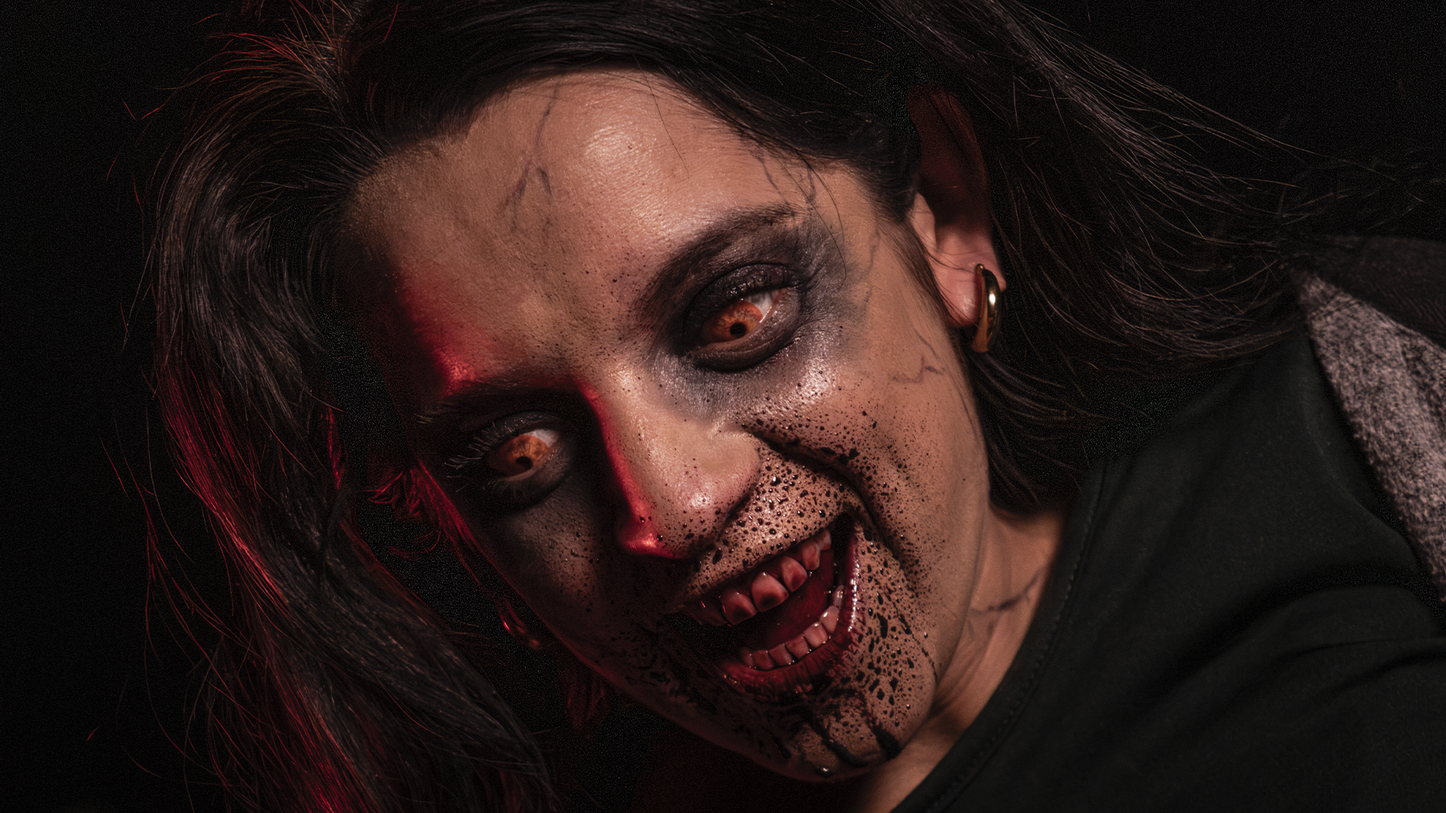
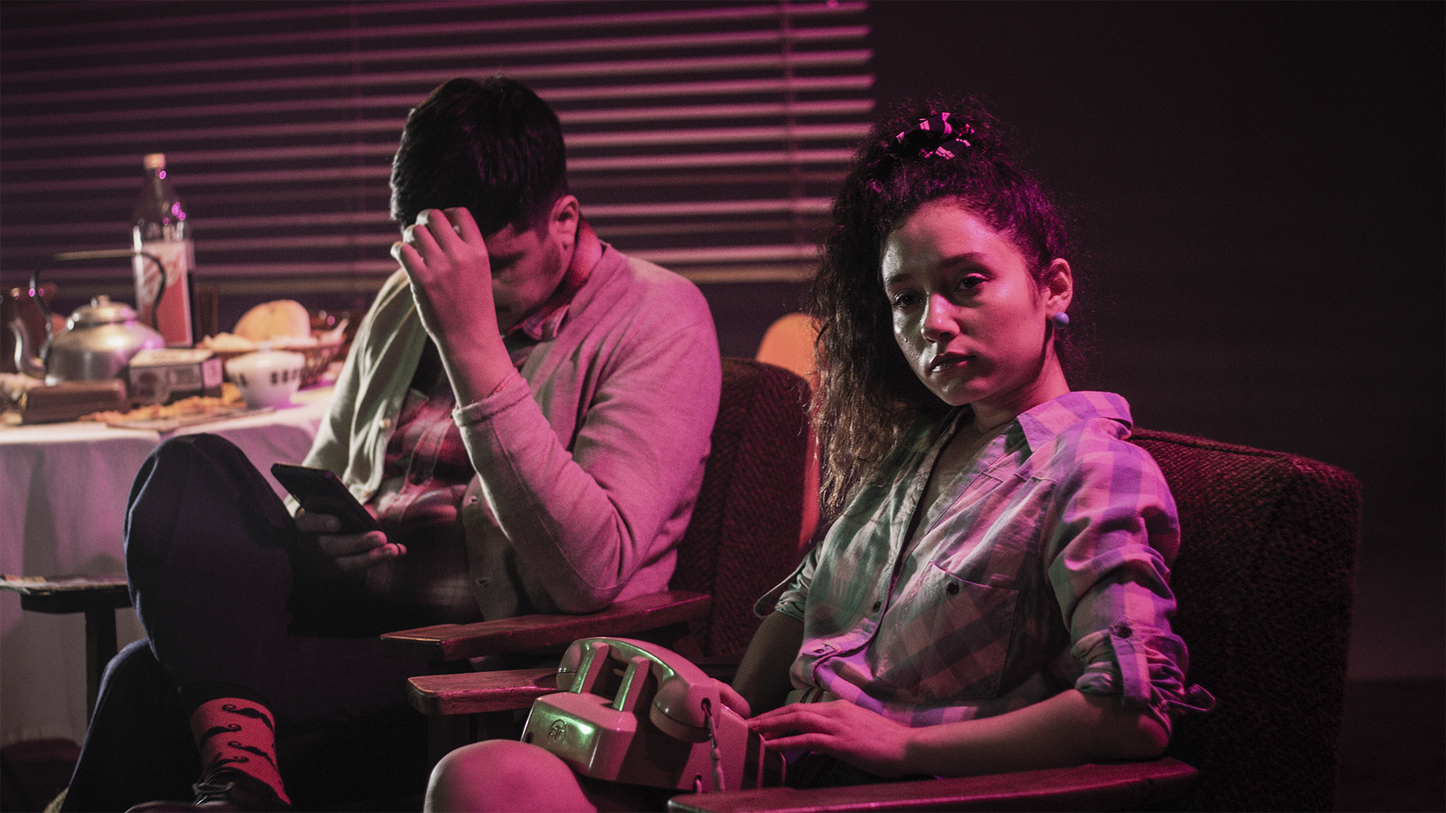
Portafolio modificado

diff --git a/app/portafolio/page.tsx b/app/portafolio/page.tsx
@@ -4,20 +4,46 @@ import { useState } from "react";
 import Link from "next/link";
 import Image from "next/image";
 
-// array de imágenes desde portafolio1.png hasta portafolio21.png
-const imagenesPortafolio: string[] = Array.from(
-  { length: 21 },
-  (_, index) => `/portafolio${index + 1}.png`
-);
+interface ItemPortafolio {
+  id: number;
+  src: string;
+  title: string;
+}
+
+// Estructura de array individual con objetos para cada imagen (portafolio1.png a portafolio23.png)
+const imagenesPortafolio: ItemPortafolio[] = [
+  { id: 1, src: "/portafolio1.png", title: "PUTA QUE WEVEAI TOMMY" },
+  { id: 2, src: "/portafolio2.png", title: "PUTA QUE WEVEAI TOMMY" },
+  { id: 3, src: "/portafolio3.png", title: "PUTA QUE WEVEAI TOMMY" },
+  { id: 4, src: "/portafolio4.png", title: "PUTA QUE WEVEAI TOMMY" },
+  { id: 5, src: "/portafolio5.png", title: "PUTA QUE WEVEAI TOMMY" },
+  { id: 6, src: "/portafolio6.png", title: "PUTA QUE WEVEAI TOMMY" },
+  { id: 7, src: "/portafolio7.png", title: "PUTA QUE WEVEAI TOMMY" },
+  { id: 8, src: "/portafolio8.png", title: "PUTA QUE WEVEAI TOMMY" },
+  { id: 9, src: "/portafolio9.png", title: "PUTA QUE WEVEAI TOMMY" },
+  { id: 10, src: "/portafolio10.png", title: "PUTA QUE WEVEAI TOMMY" },
+  { id: 11, src: "/portafolio11.png", title: "PUTA QUE WEVEAI TOMMY" },
+  { id: 12, src: "/portafolio12.png", title: "PUTA QUE WEVEAI TOMMY" },
+  { id: 13, src: "/portafolio13.png", title: "AGREGAR TITULO" },
+  { id: 14, src: "/portafolio14.png", title: "AGREGAR TITULO" },
+  { id: 15, src: "/portafolio15.png", title: "AGREGAR TITULO" },
+  { id: 16, src: "/portafolio16.png", title: "AGREGAR TITULO" },
+  { id: 17, src: "/portafolio17.png", title: "AGREGAR TITULO" },
+  { id: 18, src: "/portafolio18.png", title: "AGREGAR TITULO" },
+  { id: 19, src: "/portafolio19.png", title: "AGREGAR TITULO" },
+  { id: 20, src: "/portafolio20.png", title: "AGREGAR TITULO" },
+  { id: 21, src: "/portafolio21.png", title: "AGREGAR TITULO" },
+  { id: 22, src: "/portafolio22.png", title: "AGREGAR TITULO" },
+  { id: 23, src: "/portafolio23.png", title: "AGREGAR TITULO" },
+];
 
 export default function PortafolioPage() {
-  const [imagenSeleccionada, setImagenSeleccionada] = useState<string | null>(null);
+  const [imagenSeleccionada, setImagenSeleccionada] = useState<ItemPortafolio | null>(null);
 
   return (
     <main className="min-h-screen bg-[#121318] text-white relative selection:bg-[#c22533] selection:text-white">
 
       {/* 1. ENCABEZADO Y NAVEGACIÓN */}
-
       <header className="sticky top-0 z-40 w-full bg-[#121318]/80 backdrop-blur-xl border-b border-white/10 px-6 py-4 transition-all duration-300">
         <div className="max-w-7xl mx-auto flex items-center justify-between">
           
@@ -58,7 +84,6 @@ export default function PortafolioPage() {
       </header>
 
       {/* 2. SECCIÓN PRINCIPAL / TITULAR */}
-
       <section className="max-w-7xl mx-auto px-6 pt-12 pb-8 text-center space-y-4">
         <span className="inline-block px-4 py-1.5 rounded-full bg-black/40 border border-white/10 text-[10px] md:text-xs font-bold tracking-[0.35em] uppercase text-[#c22533] shadow-lg">
           Nuestro Trabajo
@@ -67,43 +92,48 @@ export default function PortafolioPage() {
           Galería <span className="text-transparent bg-clip-text bg-gradient-to-r from-white via-zinc-300 to-zinc-500">Visual</span>
         </h2>
         <p className="text-xs md:text-sm text-zinc-400 max-w-xl mx-auto font-light tracking-wide">
-          Haz clic sobre cualquier imagen para verla en pantalla completa.
+          Haz clic sobre cualquier imagen para ampliarla y ver sus detalles.
         </p>
       </section>
 
       {/* 3. GALERÍA DE IMÁGENES */}
-
       <section className="max-w-7xl mx-auto px-6 pb-24">
         <div className="grid grid-cols-1 sm:grid-cols-2 md:grid-cols-3 gap-6">
-          {imagenesPortafolio.map((src, index) => (
+          {imagenesPortafolio.map((item) => (
             <div
-              key={index}
-              onClick={() => setImagenSeleccionada(src)}
+              key={item.id}
+              onClick={() => setImagenSeleccionada(item)}
               className="group relative aspect-video sm:aspect-square bg-zinc-900 rounded-2xl overflow-hidden border border-white/10 cursor-pointer shadow-lg hover:border-[#c22533]/50 transition-all duration-500 hover:shadow-[0_0_30px_rgba(194,37,51,0.3)]"
             >
               <Image
-                src={src}
-                alt={`Portafolio Fantasmedia ${index + 1}`}
+                src={item.src}
+                alt={item.title}
                 fill
                 sizes="(max-width: 640px) 100vw, (max-width: 1024px) 50vw, 33vw"
                 className="object-cover group-hover:scale-105 transition-transform duration-700 ease-out"
               />
+              
+              {/* Sombra suave e indicadora al pasar el cursor */}
+              <div className="absolute inset-0 bg-gradient-to-t from-black/80 via-transparent to-transparent opacity-0 group-hover:opacity-100 transition-opacity duration-300 flex items-end p-4">
+                <span className="text-xs font-semibold text-zinc-300 truncate">
+                  {item.title}
+                </span>
+              </div>
             </div>
           ))}
         </div>
       </section>
 
-      {/* 4. MODAL AMPLIAR IMAGEN */}
-
+      {/* 4. MODAL AMPLIAR IMAGEN + DESCRIPCIÓN */}
       {imagenSeleccionada && (
         <div
           onClick={() => setImagenSeleccionada(null)}
-          className="fixed inset-0 z-50 bg-black/90 backdrop-blur-md flex items-center justify-center p-4 md:p-10 cursor-zoom-out"
+          className="fixed inset-0 z-50 bg-black/90 backdrop-blur-md flex flex-col items-center justify-center p-4 md:p-8 cursor-zoom-out"
         >
           {/* Botón Cerrar X */}
           <button
             onClick={() => setImagenSeleccionada(null)}
-            className="absolute top-6 right-6 z-50 text-white/70 hover:text-white bg-black/50 border border-white/20 p-3 rounded-full transition-all duration-300 hover:scale-110"
+            className="absolute top-6 right-6 z-50 text-white/70 hover:text-white bg-black/60 border border-white/20 p-3 rounded-full transition-all duration-300 hover:scale-110 shadow-lg"
             aria-label="Cerrar imagen"
           >
             <svg className="w-6 h-6" fill="none" stroke="currentColor" viewBox="0 0 24 24">
@@ -111,19 +141,27 @@ export default function PortafolioPage() {
             </svg>
           </button>
 
-          {/* Contenedor de la Imagen Ampliada */}
+          {/* Contenedor de la Imagen Ampliada con Pie de Foto */}
           <div
             onClick={(e: React.MouseEvent<HTMLDivElement>) => e.stopPropagation()}
-            className="relative max-w-5xl max-h-[85vh] w-full h-full flex items-center justify-center rounded-2xl overflow-hidden border border-white/20 shadow-[0_0_50px_rgba(0,0,0,0.9)] cursor-default"
+            className="relative max-w-5xl max-h-[85vh] w-full flex flex-col rounded-2xl overflow-hidden border border-white/20 bg-zinc-950 shadow-[0_0_50px_rgba(0,0,0,0.9)] cursor-default"
           >
-            <div className="relative w-full h-full">
+            {/* Área de la Imagen */}
+            <div className="relative w-full h-[65vh] sm:h-[72vh] bg-black">
               <Image
-                src={imagenSeleccionada}
-                alt="Imagen Ampliada"
+                src={imagenSeleccionada.src}
+                alt={imagenSeleccionada.title}
                 fill
                 className="object-contain"
                 priority
               />
+            </div>
+
+            {/* Pie de Foto / Descripción */}
+            <div className="w-full bg-black/80 backdrop-blur-md border-t border-white/10 p-4 md:p-5 text-center">
+              <p className="text-xs md:text-sm font-medium tracking-wide text-zinc-200">
+                {imagenSeleccionada.title}
+              </p>
             </div>
           </div>
         </div>

diff --git a/app/page.tsx b/app/page.tsx
@@ -439,8 +439,7 @@ const clientes = [
 
         {/* 6. PRODUCTORAS ASOCIADAS - SHOWCASE CON LOGOS PROTAGÓNICOS */}
         <section id="productoras-asociadas" className="relative z-10 w-full py-16 md:py-24 border-t border-white/10 overflow-hidden bg-gradient-to-b from-transparent via-black/40 to-transparent">
-          
-          {/* Encabezado Minimalista */}
+
           <div className="w-full text-center space-y-2 mb-10 px-6">
             <div className="inline-flex items-center gap-3">
               <span className="w-8 h-[1px] bg-[#c22533]" />
@@ -454,16 +453,13 @@ const clientes = [
             </h2>
           </div>
 
-          {/* Banner con Logos Protagónicos de Gran Tamaño */}
           <div className="max-w-6xl mx-auto px-4 md:px-6">
             <div className="grid grid-cols-1 md:grid-cols-2 gap-8 md:gap-0 items-center border border-white/10 rounded-2xl md:rounded-3xl bg-black/50 backdrop-blur-md divide-y md:divide-y-0 md:divide-x divide-white/10 overflow-hidden shadow-[0_20px_50px_rgba(0,0,0,0.8)]">
               
               {/* Productora 1: Spectral Films */}
               <div className="group relative p-6 md:p-10 flex flex-col items-center justify-center transition-all duration-500 hover:bg-white/[0.03]">
-                {/* Resplandor rojo en Hover */}
                 <div className="absolute inset-0 bg-gradient-to-b from-[#c22533]/15 to-transparent opacity-0 group-hover:opacity-100 transition-opacity duration-700 pointer-events-none" />
-                
-                {/* Contenedor del Logo de Gran Tamaño */}
+
                 <div className="relative h-32 md:h-44 w-full max-w-[280px] md:max-w-[360px] flex items-center justify-center transition-transform duration-500 group-hover:scale-105">
                   <Image
                     src="/productora1.png"
@@ -483,10 +479,8 @@ const clientes = [
 
               {/* Productora 2: Ugly Monster */}
               <div className="group relative p-6 md:p-10 flex flex-col items-center justify-center transition-all duration-500 hover:bg-white/[0.03]">
-                {/* Resplandor rojo en Hover */}
                 <div className="absolute inset-0 bg-gradient-to-b from-[#c22533]/15 to-transparent opacity-0 group-hover:opacity-100 transition-opacity duration-700 pointer-events-none" />
-                
-                {/* Contenedor del Logo de Gran Tamaño */}
+
                 <div className="relative h-32 md:h-44 w-full max-w-[280px] md:max-w-[360px] flex items-center justify-center transition-transform duration-500 group-hover:scale-105">
                   <Image
                     src="/productora2.png"
